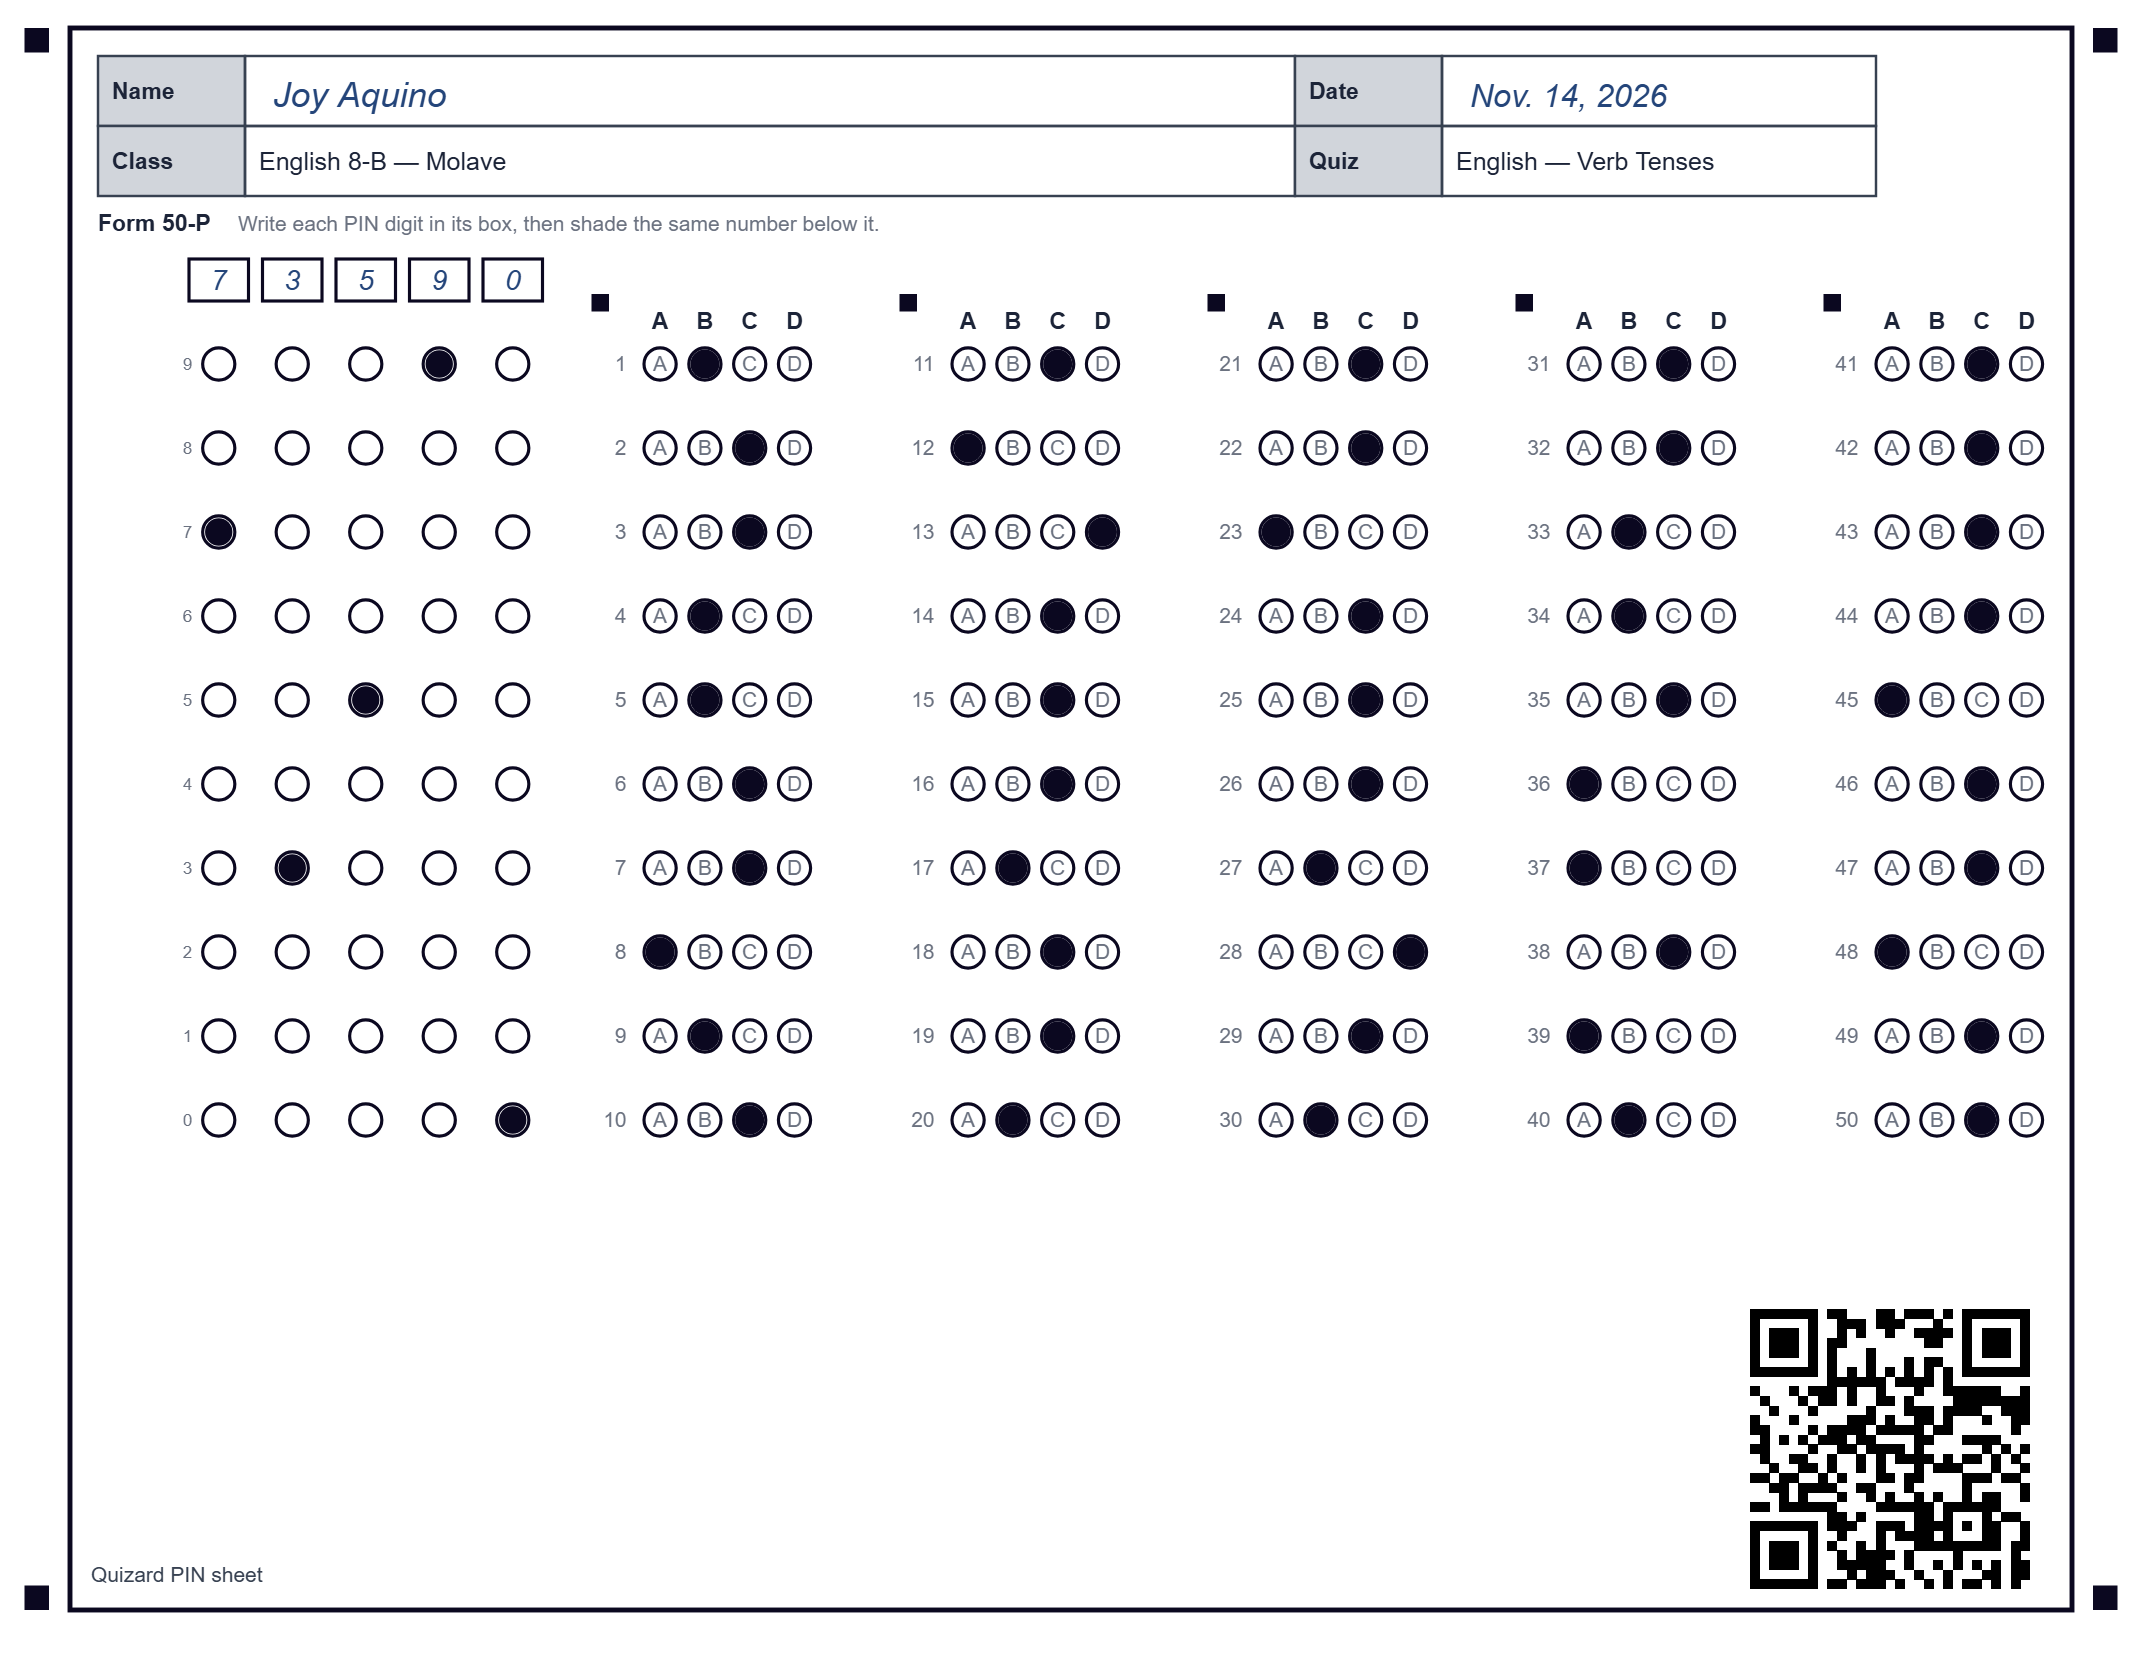
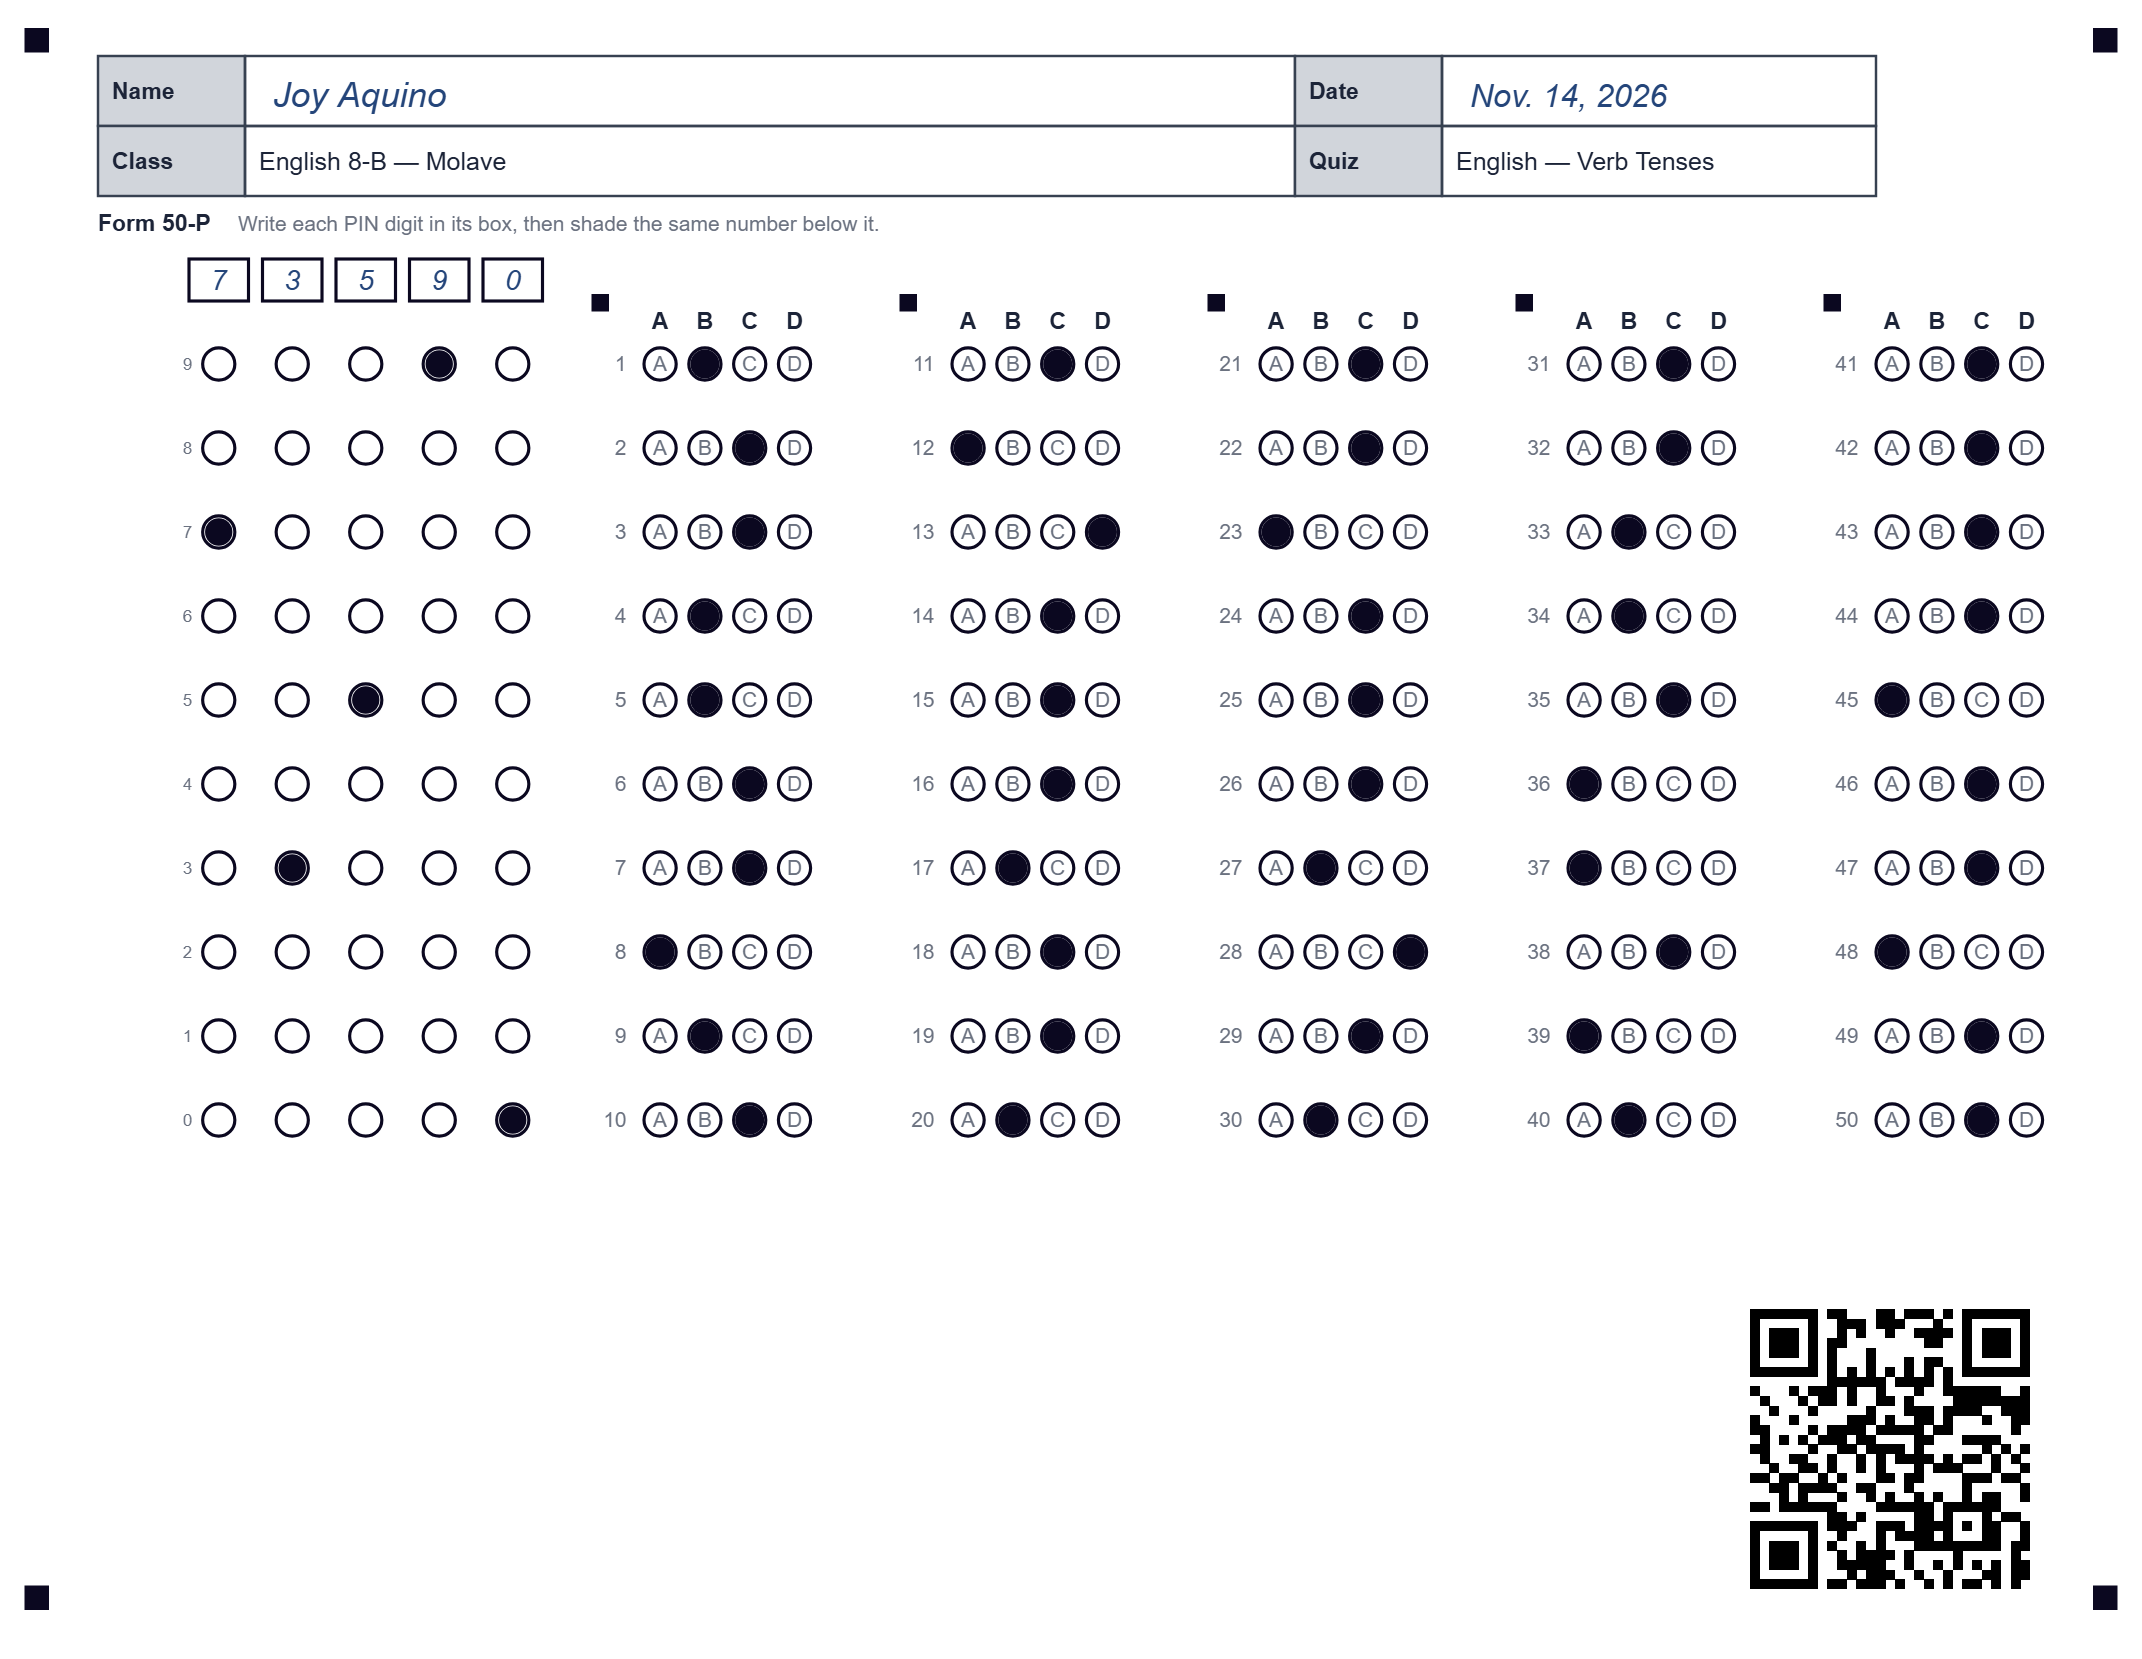
docs: 2.5.0 - borderless demo answer sheets

Changed region(s): [[0.0308, 0.9222, 0.9552, 0.9837], [0.0308, 0.0, 0.9552, 0.0307]]

diff --git a/index.html b/index.html
@@ -40,7 +40,7 @@
     "url": "https://quizard-checker.github.io/quizard-docs/",
     "installUrl": "https://quizard-checker.github.io/",
     "downloadUrl": "https://github.com/quizard-checker/quizard-checker.github.io/releases/latest/download/Quizard.apk",
-    "softwareVersion": "2.4.8",
+    "softwareVersion": "2.5.0",
     "offers": { "@type": "Offer", "price": "0", "priceCurrency": "USD" },
     "description": "Turn an answer key or lesson into printable bubble sheets, scan them with a phone, and score offline."
   }
@@ -635,7 +635,7 @@
         <b>Project</b>
         <a href="https://github.com/quizard-checker/quizard-checker.github.io">GitHub</a>
         <a href="https://github.com/quizard-checker/quizard-checker.github.io/releases">Releases</a>
-        <span class="footer-version">Version 2.4.8</span>
+        <span class="footer-version">Version 2.5.0</span>
       </div>
     </div>
     <div class="wrap footer-bottom">
